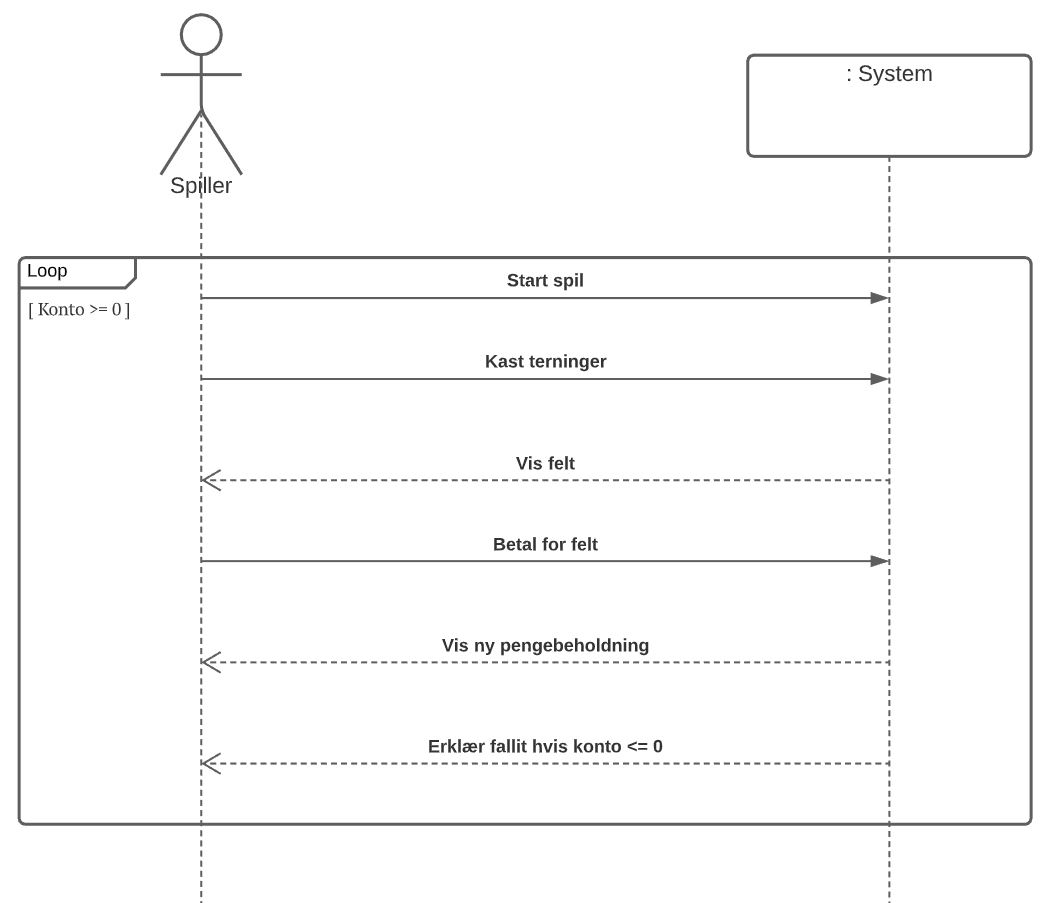
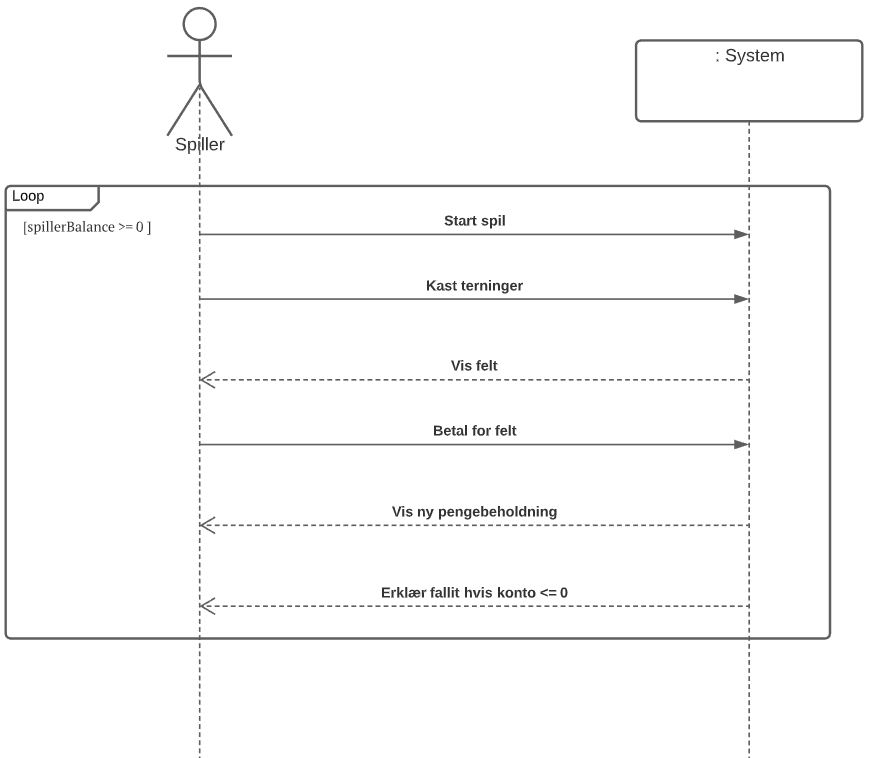
Opdatering af diagrammer og overordnet meget arbejde !

diff --git a/chapters/5_implementation.tex b/chapters/5_implementation.tex
@@ -4,22 +4,33 @@ Der er tager brug af biblioteket Diplomitdtu:matadorgui version 3.1.7, hvilket G
 De forskellige klasser er forklaret nedenfor.\\
 Et Javadoc til biblioteket kan findes i reference 
 \\
-Programmet består af følgende klasser:
-\subsection{Main}
+
+\subsection{Spillets klasser}
+
+\subsubsection{Main}
 Main er en helt central klasse i programmet. Det er primært denne klasse som kommunikerer med GUIen. Derudover tager den brug af de fleste metoder fra de andre klasser. Da Main er så central i vores program, har vi valgt at oprette de fleste elementer, derunder variabler, arrays og objekter som public, så de kan tilgås fra de tilhørende klasser. Igennem kommunikation med biblioteket, bliver spillerne, spillepladen og felterne oprettet i Main.\\
-I denne klasse bliver spillets primære loop også kørt. Loopet skifter mellem de forskellige spillere, og styrer bland andet hvornår en spiller skal kaste en terning, rykke og evt. betale eller medtage penge. Når dette loop bliver brudt, er spillet slut og en taber og evt. vinner vil findes.
+I denne klasse bliver spillets primære loop også kørt. Loopet skifter mellem de forskellige spillere, og styrer bland andet hvornår en spiller skal kaste en terning, rykke og evt. betale eller medtage penge. Når dette loop bliver brudt, er spillet slut og en taber og evt. vinder vil findes.
 
-\subsection{FeltLogik}
-\subsection{Spiller}
-\subsection{Logik}
-Logik klassen er en public klasse, som extender Main. Klassen extender main, da klassen ikke ville kunne bruges uden de oprettede elementer brugt i main, og derfor 
-\subsection{RunChanceKort}
-\subsection{ChanceKort}
-\subsection{Felter}
-\subsection{Dice}
+\subsubsection{FeltLogik}
+Feltlogik klassen er en public klasse, som extender mMin, for at kunne tilgå visse objekter oprettet i Main klassen. FeltLogik klassen bruges i sammenhæng med Main klassen til, at finde ud af, hvilket felt den enkelte spiller befinder sig på, tjekke hvorvidt feltet er ejet af en anden spiller, hvem der ejer det enkelte fag samt at rykke spilleren rundt på de forskellige felter. Derudover hjælper klassen også med, at rykke spilleren i fængsel, hvis spilleren har ramt feltet "Gå i fængsel". I klassen er der ingen variable som er oprettet til brug af hele klassen, men i stedet kun for de enkelte metoder. Variablerne er altså oprettet lokalt i de metoder som benytter dem.
 
+\subsubsection{Spiller}
+Spiller klassen har udelukkende forbindelse til Main klassen. Klassen holder styr på spillernes navne, antallet af spillere samt spillernes indledende balance. Klassen har 2 public variabler af hhv. et String array til spillernes navne, og en enkelt int til antallet af spillere. Disse to variabler er gjort public, da de begge bliver brugt inde i Main. Spiller klassen tager brug af bibliotekets GUI del, da der her bliver fremvist tekst-input felter til spillernes navne.
 
+\subsubsection{Logik}
+Logik klassen er en public klasse, som extender Main. Klassen extender Main, da klassen ikke ville kunne bruges eller fungere uden visse oprettede elementer i main, og det er derfor nødvendigt for Logik at Main findes. Denne klasse er blevet oprettet for, at fordele de mange metoder vores program tager brug af, ud i flere kategorier. Logik er altså klassen hvor de variabler som ikke gav mening af oprette inde i enten FeltLogik eller Spiller. Med Logik klassen er det muligt, at finde både vinder og taber samt køb af felt og betaling mellem to spillere.
 
+\subsubsection{ChanceKort}
+ChanceKort klassen er en meget simpel klasse, som bruges til at henvise videre til metoderne i RunChanceKort. Klassen er en public class hvis formål er, at finde et tilfældigt chancekort og initialisere metoden inde i RunChanceKort ved hjælp af en simpel switch.
+
+\subsubsection{RunChanceKort}
+RunChanceKort indeholder alle spillets chancekort, deres tekst og deres logik, og har mulighed for at fremvise chancekortne i GUIen når nødvendigt. Hvert chancekort er altså i stand til, at både rykke spillerne rundt på pladen, få spillere ud af fængslet samt give og trække penge på de respektive konti.
+
+\subsubsection{Felter}
+Felter klassen består udelukkende af et array af felterne på spillerpladen. Ved hjælp af det importerede matador bibliotek, bliver hvert felt oprettet som et objekt med en række variabler der kan angives ved start. Da denne klasse ikke på noget tidspunkt ændrer sig, er klassen oprettet som public final og dets variabler er oprettet som private final. Alle variabler i denne klasse er udelukkende brugt i klassen selv.
+
+\subsubsection{Dice}
+Dice klassen er en public klasse hvis formål er at kaste terningen og derved finde et random tal mellem 1 og 6. Hvis man ønsker at ændre terningen til en større type terning, kan dette nemt ændres ved at ændre klassens MAX værdi. Terningen bliver udelukkende brugt til, at angive hvor mange felter spilleren skal rykke på brættet.
 
  
 
@@ -27,3 +38,9 @@ Logik klassen er en public klasse, som extender Main. Klassen extender main, da 
 Versionsstyring foregår igennem GIT ved brug af Github som fjern repository. Ved udvikling af dette projekt har vi benyttet os af flere branches til forskellige dele af projektet. Der er bl.a. blevet oprettet en \emph{udviklings branch}, som vi har benyttet til at skrive koden i. Når et stykke kode er skrevet i udviklings-branchen, har vi herefter oprettet \emph{Release branch}, hvor de forskellige dele af programmet samles sammen. Her testes der om programmet nu virker samlet og er dette tilfældet, bliver hele programmet merget ind \emph{master branch}, som nu danner baggrund for det færdig udviklet program.
 \\Derudover er der også oprettet en \emph{feature branch}, som kan benyttes til at skrive ny kode og teste forskellige scenarier, som går ud over projektbeskrivelsen, uden at det har indflydelse på det færdig skrevet kode.
 
+\begin{figure}[H]
+        \centering
+        \includegraphics[width=17cm]{figures/gitVisualize.JPG}
+        \caption{Git Visualization with GMaster}
+    \end{figure}
+    

diff --git a/chapters/6_test.tex b/chapters/6_test.tex
@@ -4,38 +4,67 @@
 %Lav mindst én Junit test til centrale metoder. Inkludér code coverage dokumentation.
 %Lav mindst én brugertest. Husk at brugeren skal være en der ikke kan kode.
 
-\subsection{Programtest}
+
 
 
 \subsection{Brugertest}
 
-\subsection{Test af terningens tilfældighed}
+\subsection{Programtest}
+Vi har lavet tre JUnit tests af vores version af matadorspillet. Testene tester hhv. terningens tilfældighed, chancekortene tilfældighed samt test af antallet af chancekortene.
+
+\subsubsection{Test af terningens tilfældighed}
     \begin{figure}[H]
         \centering
         \includegraphics[width=8cm]{figures/diceIsRandomTest.png}
         \caption{JUnit test for at teste tilfældigheden af Dice klassens metode roll()}
         \emph{Testen af Dice klassen og dens roll() metode var en succes. Koden ses i bilag \ref{diceTest}}
     \end{figure}
+    Testen af Dice klassen gør brug af et for loop, som køres 100.000 gange. I loopet gør vi brug af Dice klassens roll() metode, for at kaste med terningen. Vi tjekker hver slag, for at se om man slog 1. Efter loopet og de 100.000 slag med terningen, tjekker vi om vi har slået 1 med terningen det forventede antal gange. Vi tester altså om antallet af gange 1 blev slået, afviger væsentligt fra det forvende antal. Gør den det, fejler testen.
     
 
-\subsection{Test af chancekort tilfældighed}
+\subsubsection{Test af chancekort tilfældighed}
     \begin{figure}[H]
         \centering
         \includegraphics[width=8cm]{figures/chanceKortIsRandom.png}
         \caption{JUnit test for at teste tilfældigheden af ChanceKort klassens metode randomChanceKort()}
         \emph{Testen af ChanceKort klassen og dens randomChanceKort() metode var en succes. Koden ses i bilag \ref{ChanceKortTest}}
     \end{figure}
+    Testen her er opbygget på samme måde som testen af Dice klassens tilfældighed. Vi kører randomChanceKort() metoden 100.000 gange og ser om vi fik kort 1 færre eller flere gange end forventet. Denne test er lavet da alle 24 kort var med i spillet, hvilket senere er blevet ændret. For at testen skal have succes, skal der derfor tilføjet alle 24 kort metoder igen. 
     
     
-    \subsection{Test af antal chancekort}
+\subsubsection{Test af antal chancekort}
     \begin{figure}[H]
         \centering
         \includegraphics[width=15cm]{figures/RunChanceKortHas10Cards.JPG}
         \caption{JUnit test for at teste at RunChanceKort klassen indeholder det rigtige antal kort.}
         \emph{Testen af RunChanceKort klassen var en succes. Koden ses i bilag \ref{ChanceKortTest}}
     \end{figure}
+    Vi har her ændret antal chance kort til 10 i stedet for 24. Her tester vi så antallet af kort, for at sikre at det kun er de 10 kort der er med i spillet. Det gør vi ved at oprette et array med alle de forskellige metoder i RunChanceKort klassen. Vi husker at der er 12 metoder (10 kort() metoder og 2 andre private metoder, som bruges i kort() metoderne). Til sidst sammenligner vi længden af arrayet med det forventede antal ved brug af assertEquals(expected, actual);
 
 
+\subsubsection{Coverage dokumentation}
+\begin{figure}[H]
+        \centering
+        \includegraphics[width=15cm]{figures/codeCoverage.JPG}
+        \caption{Code Coverage test}
+        \emph{Resultaternes rækkefølge fra venstre til højre er hhv. klasse, metoder og linjer}
+    \end{figure}
+    Ud over JUnit testene har vi lavet en Code Coverage test, som tester hvor meget af den skrevne kode bliver kørt, når programmet bliver spillet.
+    Som resultat af testen bliver alle klasser og 78\% af alle linjer brugt. Dette kan dog variere fra gang til gang, da bl.a. antallet af brugte chancekort ændrer sig. RunChanceKort er derfor den eneste klasse, hvor det vil variere hvor mange af klassens metoder, der vil blive brugt. Da de forskellige chancekort sjældent bliver brugt, har vi valgt, at lave en JUnit test netop til chancekortene så vi ved, at alle chancekort har mulighed for at blive kørt.
+    
+    \begin{figure}[H]
+        \centering
+        \includegraphics[width=12cm]{figures/diceCoverage.JPG}
+        \caption{JUnit Dice Coverage test}
+        \emph{Resultaternes rækkefølge fra venstre til højre er hhv. klasse, metoder og linjer}
+    \end{figure}
+    
+    \begin{figure}[H]
+        \centering
+        \includegraphics[width=12cm]{figures/chanceCoverage.JPG}
+        \caption{JUnit ChanceKort Coverage test}
+        \emph{Resultaternes rækkefølge fra venstre til højre er hhv. klasse, metoder og linjer}
+    \end{figure}
 
-
+I de to ovenstående figurer er vist Code Coverage ved hhv. DiceTest og ChanceKortTest. Kun 2/4 af metoderne i Dice og 2/3 af metoderne i ChanceKort bliver kørt ved denne test, da de restende metoder ikke er nødvendige for at køre testen. Testen tager ikke brug af disse metoder, da de ikke er nødvendige for vores program.
 

diff --git a/chapters/3_analyse.tex b/chapters/3_analyse.tex
@@ -21,6 +21,8 @@
             \caption{Use Case Diagram}
             \emph{ Use Case Diagrammet viser hvordan en spiller interagerer med spillet}
         \end{figure}
+        
+        Når 2 til 4 spillere er blevet valgt og oprettet starter spiller. Aktørerne kan så kaste en terning som kører spillet. Alt efter hvilket felt de lander på, sker der forskellige ting, f.eks. at aktøren køber en grund. Programmet holder så øje med, om aktøren nu er gået fallit eller om spillet skal fortsætte til den næste aktør.
 
             
 
@@ -131,20 +133,23 @@
         \end{itemize}
         
         
-    \subsection{Domæne model}
+    \subsection{Domænemodel}
         \begin{figure}[H]
             \centering
             \includegraphics[width=14cm]{figures/domæneModel.JPG}
             \caption{Domæne model}
-            \emph{Modellen her er en visualisering af hvordan matadorspillet fungerer i praksis}
+            \emph{Domænemodellen viser hvordan spillet fungerer. Det ses at én spiller kaster én terning, og rykker 1-6 felter frem. 4 felter på pladen med 24 udløser et chancekort.}
         \end{figure}
-    \subsection{System Sekvens Diagram}
+    \subsection{Systemsekvensdiagram}
         \begin{figure}[H]
             \centering
             \includegraphics[width=14cm]{figures/overordnetSystemSekvensDiagram.JPG}
             \caption{Systemsekvensdiagram}
             \emph{Systemsekvensdiagrammet viser et overordnet billede af hvordan en aktør interagerer med systemet.}
         \end{figure}
+      
+        
+
         
     
     

diff --git a/chapters/0.1_resume.tex b/chapters/0.1_resume.tex
@@ -31,20 +31,20 @@ Villads  &    &   120 &    &    &    &    &    \\
 Uge 47   & Mandag & Tirsdag & Onsdag & Torsdag & Fredag & Lørdag & Søndag \\ \midrule
 Frederik &    &    &    &    &    &    &    \\
 Jean     &    &    &    &    &    &    &    \\
-Marcus   &  180  &  60  &    &  120  &  300  &    &    \\
+Marcus   &  180  &  60  &    &  120  &  300  &  70  &    \\
 Rasmus   &    &    &    &    &  300  &    &    \\
-Victor   &    &    &    &    &  300  &    &    \\
+Victor   &    &    &    &    &  300  &  70  &    \\
 Villads  &    &    &    &    &    &    &    \\ 
 \end{tabular}
 
 \begin{tabular}{@{}lccccccc@{}}
 \toprule
 Uge 48   & Mandag & Tirsdag & Onsdag & Torsdag & Fredag & Lørdag & Søndag \\ \midrule
-Frederik &    &    &    &    &    &    &    \\
-Jean     &    &    &    &    &    &    &    \\
-Marcus   &    &    &    &    &    &    &    \\
-Rasmus   &    &    &    &    &    &    &    \\
-Victor   &    &    &    &    &    &    &    \\
+Frederik &  180  &    &    &    &    &    &    \\
+Jean     &  40  &    &    &    &    &    &    \\
+Marcus   &  270 &    &    &    &    &    &    \\
+Rasmus   &  270 &    &    &    &    &    &    \\
+Victor   &  270 &    &    &    &    &    &    \\
 Villads  &    &    &    &    &    &    &    \\ \bottomrule
 \end{tabular}
 \caption{Timeregnskab}

diff --git a/chapters/1_indledning.tex b/chapters/1_indledning.tex
@@ -1,5 +1,8 @@
 \section{Indledning}
-huhhu
-\\
-huhuh
-\lipsum[1]
+I denne rapport beskriver og viser vi et matadorspil for børn og unge. Spillet er bygget i Java. 
+
+Målet er at lave et spil, som kan spilles af 2-4, som er let at spille så selv unge børn kan spille det. I rapporten gør vi brug af UML modeller og diagrammer, for at beskrive opbygningen og funktionaliteten af programmet. Vi bruger herunder modeller og diagrammer såsom klassediagrammer, domæne modeller, Use Case diagrammer og system sekvens diagrammer, til at illustrere programmet. 
+\medskip
+Spillet består af diverse klasse og et GUI bibliotek, som sammen skaber et visuelt matadorspil, hvor man kan spille 2-4 spillere. Hver spillers tur, kan spilleren slå med 1 terning. Derefter rykker man rundt på pladen, hvor man løbende køber egendomme og trækker chancekort. Spillere får forskellige valg undervejs i spillet, såsom chancekort der kan gøre forskellige ting. 
+
+En spiller kan også lande i fænglet, hvorefter deres næste tur springes over, såfremt de ikke har et "Get Out of Jail Free" kort, som kan trækkes ved at lande på et chancekort felt. 

diff --git a/chapters/2_kravspecificering.tex b/chapters/2_kravspecificering.tex
@@ -4,7 +4,8 @@
   \item Spillerne skal kunne lande på et felt og så fortsætte derfra på næste slag. 
   \item Felterne er opbygget så spillerne går i ring på brættet.
   \item Spillet skal kunne spilles af 2 til 4 personer.
-  \item Alle spillere skal starte med et antal penge ({\rotatebox[origin=c]{180}{\textwon}}).
+  \item Alle spillere skal starte med et antal penge
+  ({\rotatebox[origin=c]{180}{\textwon}}).
   
   \begin{enumerate}
       \item Ved 2 spillere skal hver spiller have 20 {\rotatebox[origin=c]{180}{\textwon}}.
@@ -21,7 +22,7 @@
       \item GUI'en skal vise, hvor de enkelte spillere befinder sig på spillepladen.
       \item GUI'en skal vise, hvilke felter de enkelte spillere ejer.
   \end{enumerate}
-  \item Alle felter der kan købes, skal have en pris fra 1 til 5 {\rotatebox[origin=c]{180}{\textwon}}.
+  \item Alle felter der kan købes, skal have en pris fra 1 til 4 {\rotatebox[origin=c]{180}{\textwon}}.
 \end{enumerate}
 
 

diff --git a/chapters/4_design.tex b/chapters/4_design.tex
@@ -8,6 +8,10 @@
 
 FORKLAR DESIGNKLASSEDIAGRAM og hvordan det hænger sammen.
 
+Design-klassediagrammet benyttes i alt sin simpelhed til at give et  hurtigt og overordnet overblik over systemets klasser og hvordan de er relateret til hinanden.  Klassediagrammet viser hvilke metoder og attributter der tilhøre den enkelte klasse, samt hvilke klasser der er associeret med hinanden. 
+
+Ud fra klassediagrammet kan det ses, at der er en "main" klasse, den klasse består af en længere række attributter som f.eks. antalSpillere, Gui, dice osv. Desuden er klassen tildelt samtlige metoder deriblandt, setName, movePlayer, feltType m.m. Main klassen er associeret med lige præcis 5 klasser, hvor netop Main indgår. Endvidere kan det ses at  klasserne FeltLogik og Logik er nedarvet af Main, hvad også kaldes subclass og superclass. 
+
 Det bør evt. skrives noget på alle pilene
         
 \subsection{Sekvensdiagram}

diff --git a/chapters/9_konklusion.tex b/chapters/9_konklusion.tex
@@ -1,5 +1,11 @@
 \section{Konklusion}
 \subsection{Produkt}
+Ved brug af den udleverede GUI har vi har fået udviklet et fungerende Monopoly-junior spil. Dette inkluderer alle de væsentlige ting fra det fysiske brætspil som spillernes figur, visuel terning, spillertransaktioner, fængsel og chancekort.
+
 \subsection{Proces}
+Til udviklingen brugte vi en udleveret GUI, som indeholdte meget af hvad, vi skulle bruge til spillet. Det er første gang det har været fremgangsmåden.
+
 \subsection{Perspektivering}
 
+
+%vi kunne bl.a. ikke få billeder på brættet

diff --git a/main.tex b/main.tex
@@ -107,7 +107,7 @@ numbersep=0.5cm
 
 \newpage
 \pagenumbering{arabic} 
-\fancyfoot[C]{Page \thepage\ of \pageref{EndOfText}}
+\fancyfoot[C]{Side \thepage\ af \pageref{EndOfText}}
 
 
 %kapitler
@@ -156,7 +156,7 @@ numbersep=0.5cm
 
 \newpage
 \pagenumbering{Roman} 
-\fancyfoot[C]{Page \thepage\ af \pageref{endOfDoc}}
+\fancyfoot[C]{Side \thepage\ af \pageref{endOfDoc}}
 
 %-- Kildehenvisninger ---
 \newpage

diff --git a/chapters/9.1_bilag.tex b/chapters/9.1_bilag.tex
@@ -90,8 +90,15 @@ public class ChanceKortTest {
         }
         assertEquals(expected, actual);
     }
-
-
-
 }
 \end{lstlisting}
+
+\subsection{Gruppekontrakt}
+\begin{figure}[H]
+    \centering
+    \includegraphics[width=17cm]{figures/Gruppekontrakt1.jpg}
+\end{figure}
+\begin{figure}[H]
+    \centering
+    \includegraphics[width=17cm]{figures/Gruppekontrakt2.jpg}
+\end{figure}
